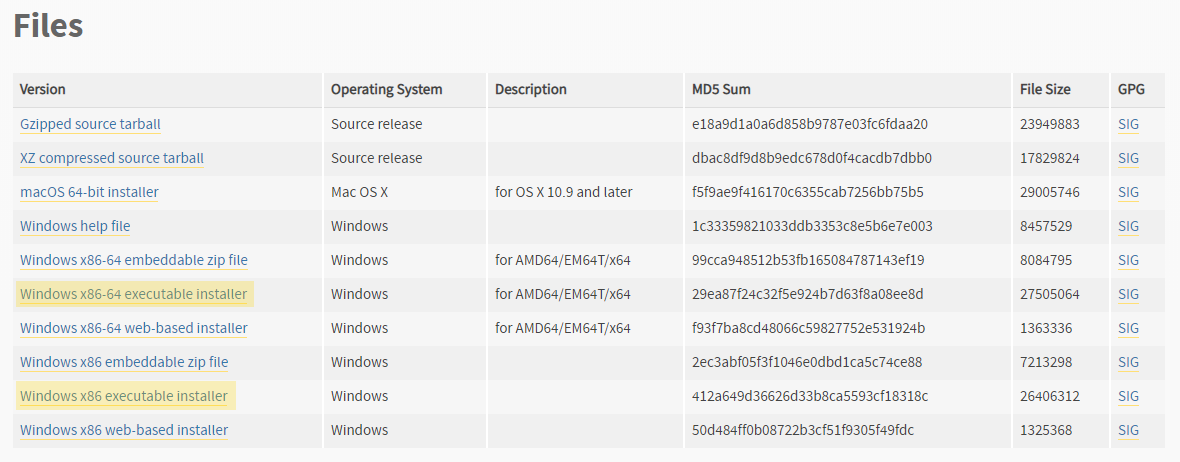
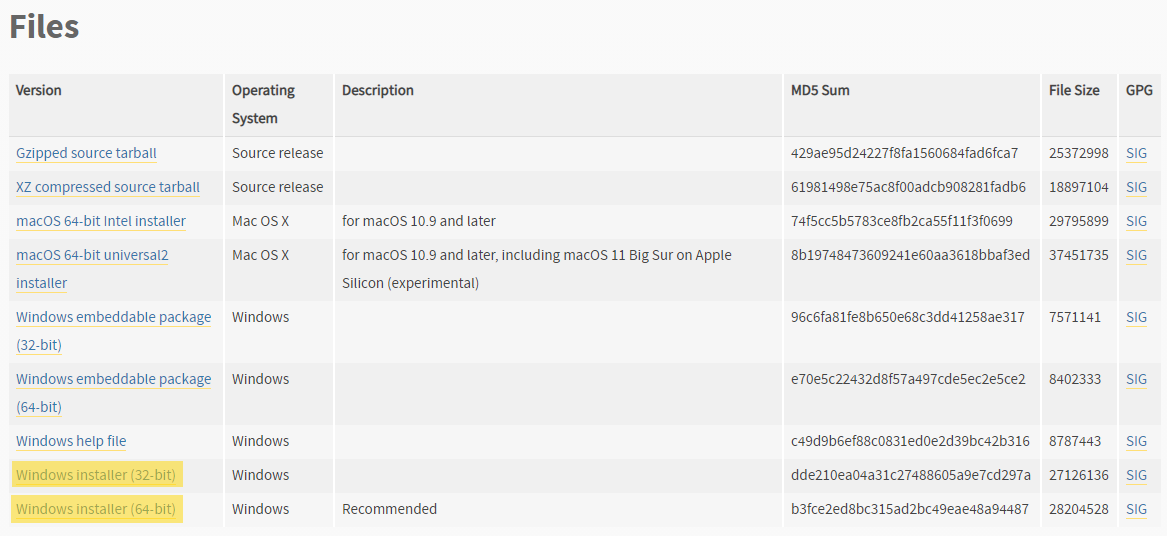
Update changelog. Update installation guide. [AB#4243]

diff --git a/docs/source/install.rst b/docs/source/install.rst
@@ -54,8 +54,8 @@ If Python isn't installed, you may see a message like this:
 
 .. image:: _static/python_command_line_not_installed.png
 
-or it may open the the download page for the Python app in the Windows Store
-(see `below <windows_store_install_>`_
+or it may open the the download page for the Python app in the Microsoft Store
+(see `below <microsoft_store_install_>`_
 for more information about installing from there).
 
 Which version do I need?
@@ -79,27 +79,27 @@ you can download it from the official Python website:
 https://www.python.org/downloads/
 
 If in doubt, choose the newest release of the latest version
-(at the time of writing, this is Python 3.8.2),
+(at the time of writing, this is Python 3.9.1),
 though be aware that this won't necessarily be at the top of the download list.
 Once you're on the page for that release,
 scroll to the bottom and choose the appropriate download under **Files**.
 If you're a Windows user and aren't sure which download option to take,
-the **Windows executable installer** is probably best, highlighted here:
+the **Windows installer** is probably best, highlighted here:
 
 .. image:: _static/python_download_files.png
 
-If you don't know whether you need the **x86** or **x86-64** version,
+If you don't know whether you need the **32-bit** or **64-bit** version,
 go to **Settings** → **System** → **About** on your computer
 and check **System type** under **Device specifications**:
 
 .. image:: _static/check_system_type.png
 
-.. _windows_store_install:
+.. _microsoft_store_install:
 
-Installing from the Windows Store
----------------------------------
+Installing from the Microsoft Store
+-----------------------------------
 
-Python versions 3.7+ are available as apps in the Windows Store.
+Python versions 3.7+ are available as apps in the Microsoft Store.
 Installing Python from here will install it just for your user
 and doesn't require administrator privileges,
 so this a good option if you don't normally have the necessary permissions

diff --git a/docs/source/changelog.rst b/docs/source/changelog.rst
@@ -2,6 +2,58 @@
   Change Log
 **************
 
+Version 0.7.0
+=============
+
+*2021-01-26*
+
+Added
+-----
+
+* Added ``LimitClause``, ``TopNClause``, ``NPerVariableClause``, ``NPerTableClause``
+  classes for creating selections with limits.
+* Added ``sample()`` and ``limit()`` methods to selections for applying limits to them.
+* Added cube variable statistics in new ``apteco.statistics`` module:
+
+  - ``Sum``
+  - ``Mean``
+  - ``Populated``
+  - ``Min``
+  - ``Max``
+  - ``Median``
+  - ``Mode``
+  - ``Variance``
+  - ``StdDev``
+  - ``LowerQuartile``
+  - ``UpperQuartile``
+  - ``InterQuartileRange``
+  - ``CountDistinct``
+  - ``CountMode``
+
+* Added ``missing()`` method to ``NumericVariable`` for selecting records
+  with missing values.
+
+Changed
+-------
+
+* Cubes can now have multiple measures rather than just the single default count.
+* For cubes with just a single dimension, ``Cube.to_df()`` now returns a DataFrame
+  with a normal ``Index`` (rather than a ``MultiIndex``).
+
+Deprecated
+----------
+
+* ``NumericVariable.max`` → use ``NumericVariable.max_value``
+* ``NumericVariable.min`` → use ``NumericVariable.min_value``
+
+Fixed
+-----
+
+* Process that validates cube dimensions and measures has been improved
+  to catch some invalid combinations that were previously allowed,
+  and allow some valid combinations that were previously prevented.
+
+
 Version 0.6.0
 =============
 
